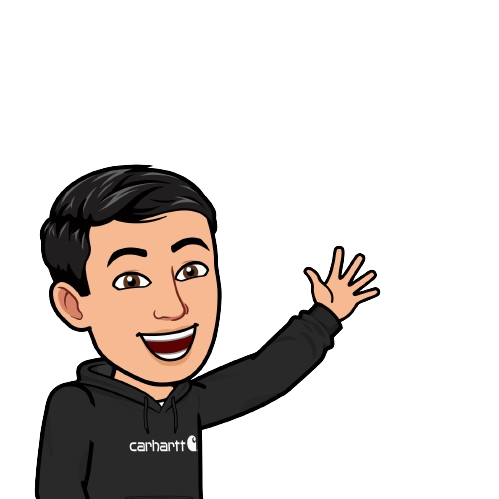
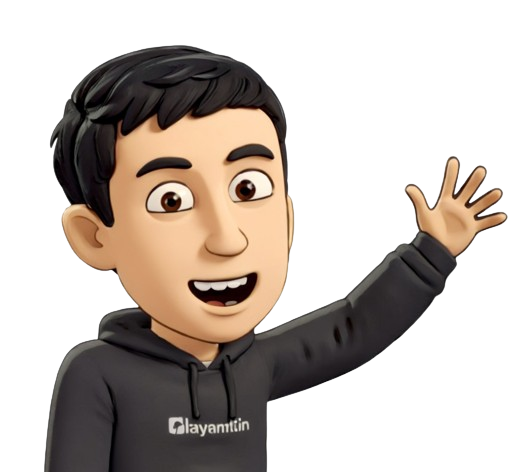
changed profile photo

diff --git a/app/page.js b/app/page.js
@@ -1,7 +1,7 @@
 "use client";
 import Image from "next/image";
 import Link from "next/link";
-import photo from "../public/me2.png";
+import photo from "../public/hey.png";
 
 import Nav from "./components/nav";
 
@@ -144,7 +144,7 @@ export default function Home() {
                 target="_blank"
                 aria-label="Visit my LinkeIn profile"
                 rel="noopener noreferrer"
-                className="rounded-2xl  bg-neutral100 overflow-hidden "
+                className="rounded-2xl  bg-neutral100 overflow-hidden"
               >
                 <Image
                   src={photo}

diff --git a/app/layout.js b/app/layout.js
@@ -38,7 +38,7 @@ export default function RootLayout({ children }) {
       </Script>
       <head>
         <link rel="manifest" href="/manifest.json" />
-        <link rel="icon" href="hey1.png" sizes="60x60" type="image/png" />
+        <link rel="icon" href="hey.png" sizes="60x60" type="image/png" />
         <meta name="theme-color" content="#000000" />
         <title>{metadata.title}</title>
       </head>
